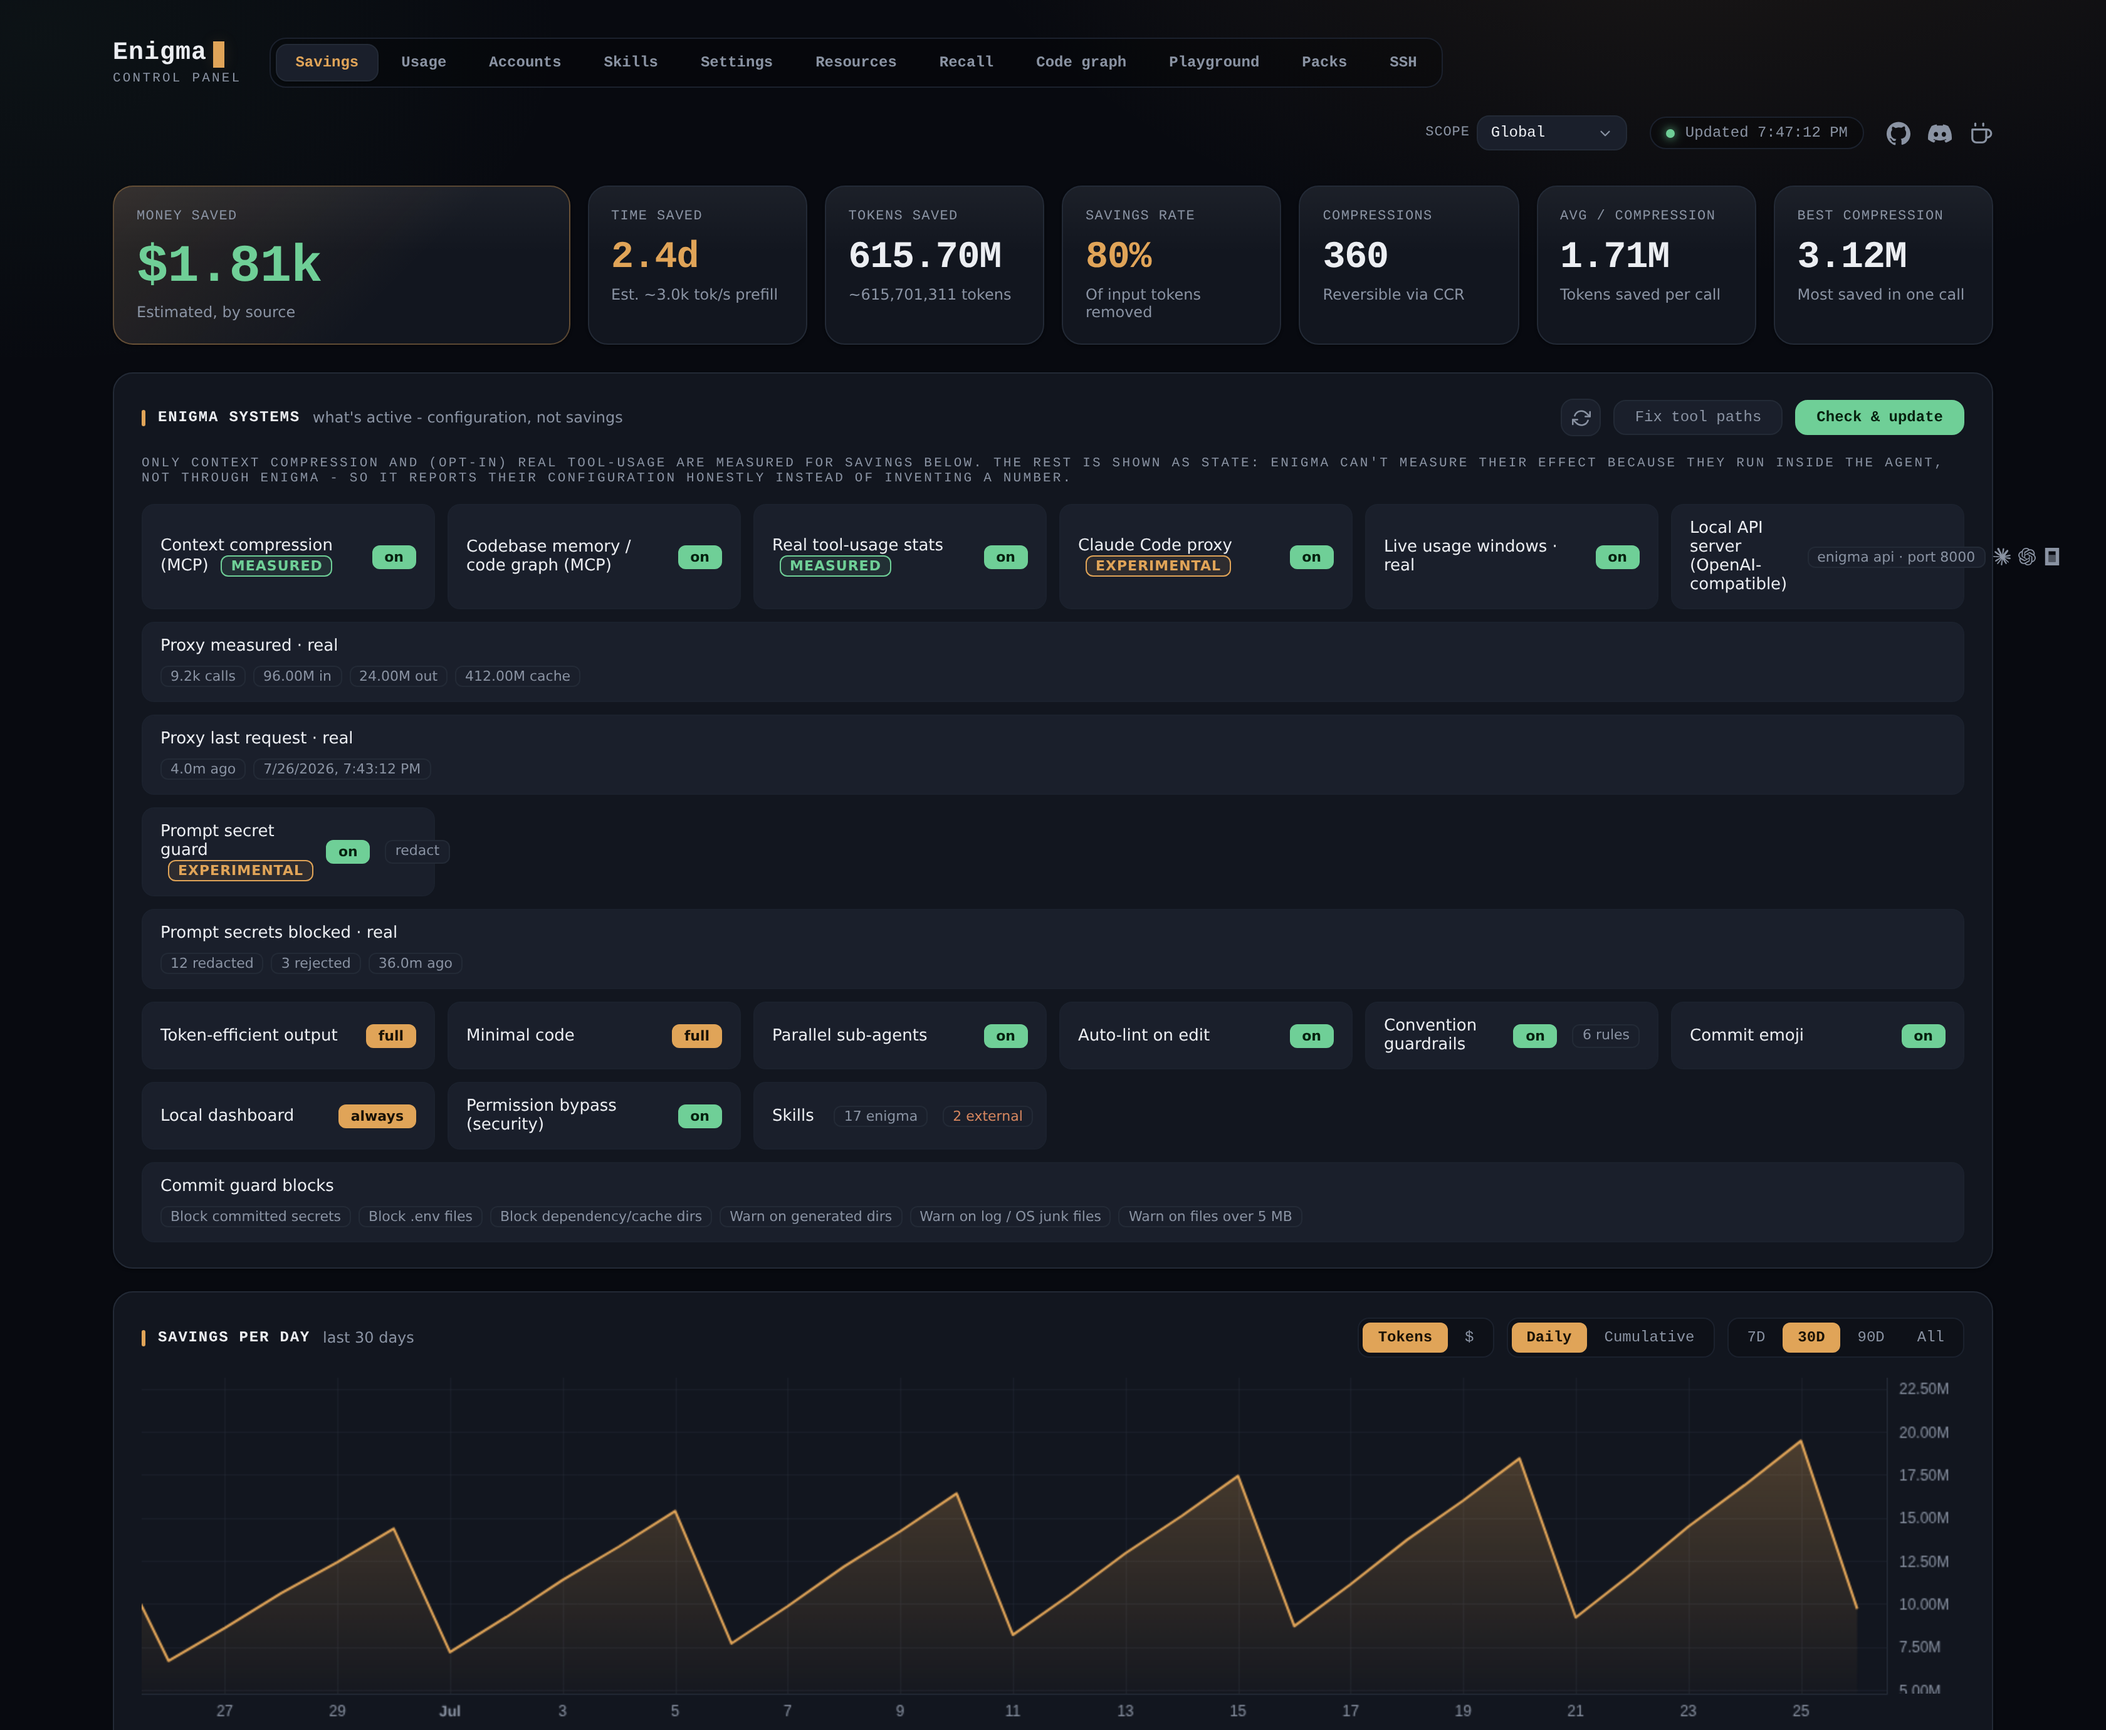
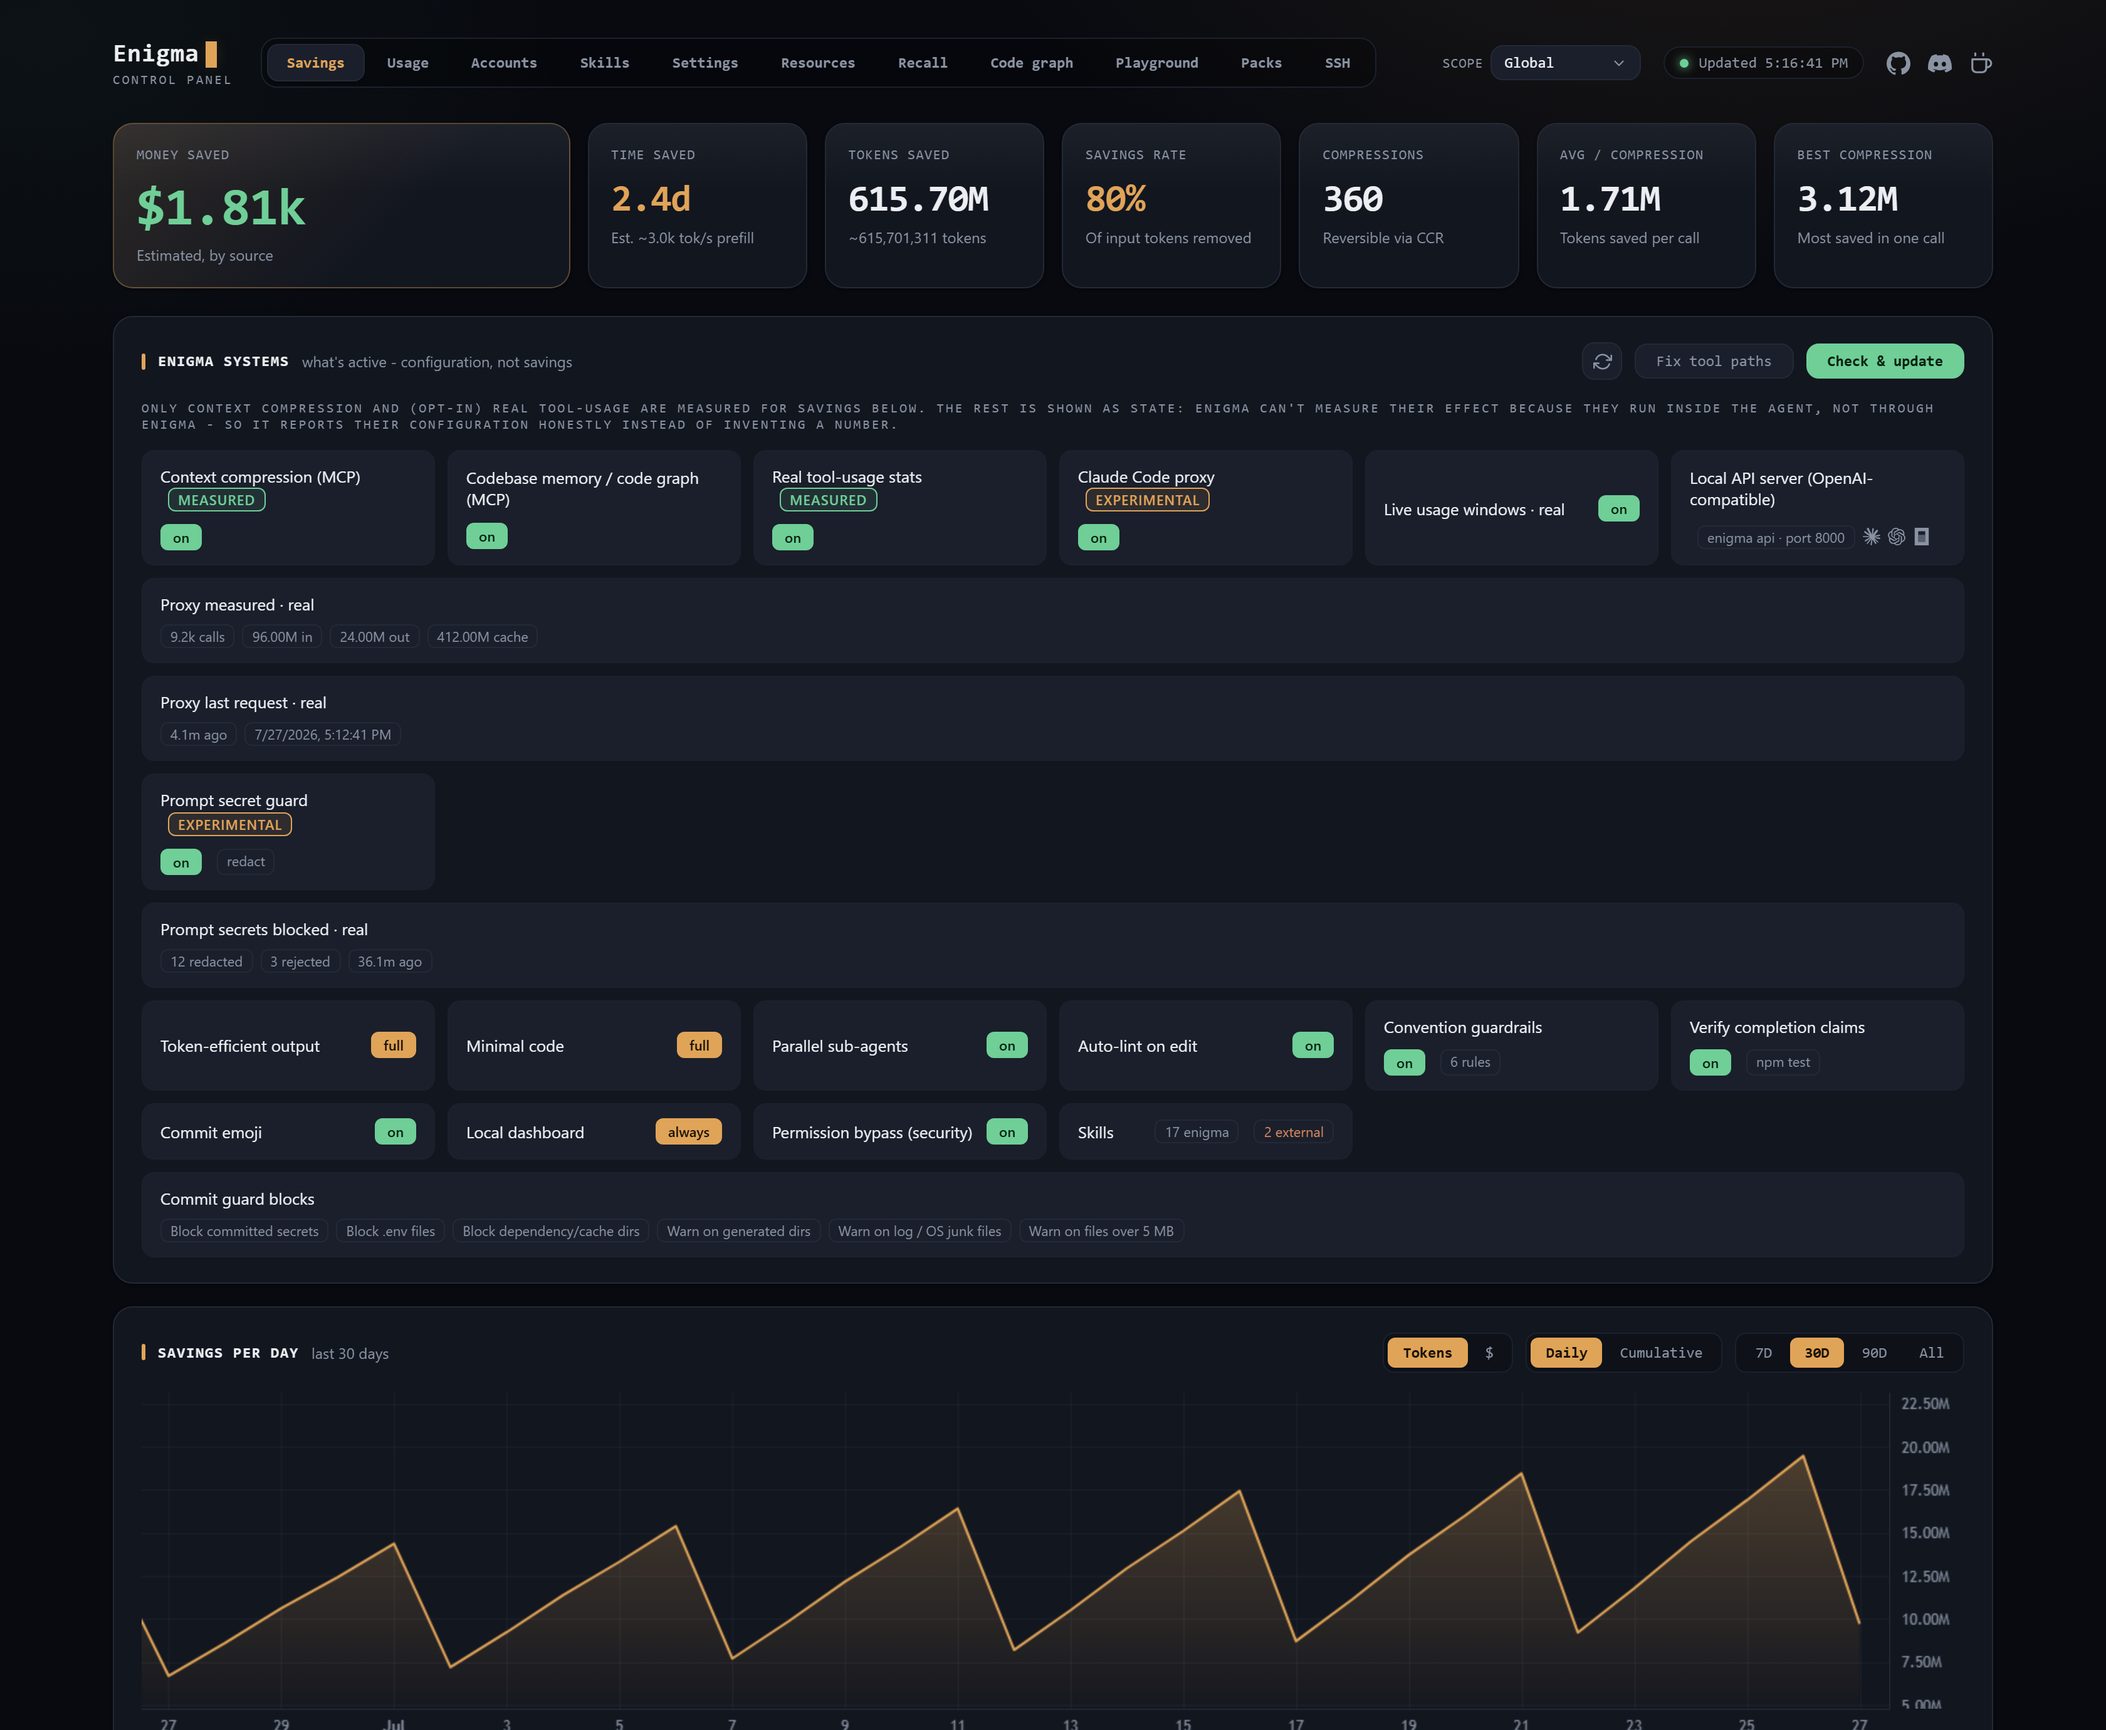
✨ feat(frontend): keep variable-length text inside its container
The dashboard systems panel pushed content past the panel edge whenever a label
or value ran long - visible in the committed preview, where the Local API server
card put its port tag and agent icons outside the panel. The cause is the default
min-width:auto on a flex or grid item: it refuses to shrink below its content, so
a long string widens the row instead of wrapping in it. The row now shrinks and
wraps, and a long unbroken label breaks with overflow-wrap:anywhere, which also
lowers min-content so the grid track is no longer forced wider.

Measured across 1440/1024/768/390px with worst-case content, before and after:
the old CSS reproduces the overflow, the new CSS has none.

frontend-policy gains the discipline this bug came from, since it has to be
pointed out by hand today: treat every string as variable-length, where
min-width:0 belongs, wrap versus truncate and keeping the truncated value
reachable, long unbroken strings, and checking worst-case content rather than
one sample at one window size.

Two guardrails back the syntactic half of that, both warn-level and both
unambiguous: a flex item that truncates without min-w-0, and text-overflow
ellipsis with no overflow value to make it take effect. Verified against the
whole tree for false positives.

diff --git a/packages/enigma-cli/src/guardrails.ts b/packages/enigma-cli/src/guardrails.ts
@@ -247,6 +247,40 @@ export const BUILTIN_RULES: GuardrailRule[] = [
         skill: "frontend-policy",
     },
     {
+        id: "fe-flex-truncate-min-width",
+        label: "Truncating flex item needs min-w-0",
+        files: ["*.tsx", "*.jsx", "*.vue", "*.svelte", "*.astro", "*.html"],
+        excludeFiles: ["*.test.*", "*.spec.*", "**/tests/**", "**/__tests__/**"],
+        scope: "file",
+        // A flex item that truncates but never sets min-w-0. This is the canonical "text sticks
+        // out of its card" bug and it is unambiguous: `truncate` implies white-space:nowrap, so
+        // the item's min-content width is the whole string, and a flex item's default
+        // min-width:auto refuses to shrink below that - it overflows instead. flex-1/flex-auto
+        // says it IS a flex item. The negative lookahead is scoped to the same class attribute
+        // (not the file) so a min-w-0 elsewhere never masks a broken element here.
+        pattern: "class(?:Name)?=[\"'](?![^\"']*\\bmin-w-0\\b)[^\"']*(?:\\b(?:flex-1|flex-auto)\\b[^\"']*\\btruncate\\b|\\btruncate\\b[^\"']*\\b(?:flex-1|flex-auto)\\b)[^\"']*[\"']",
+        flags: "",
+        message: "Flex item truncates without min-w-0, so it will overflow its container instead of shrinking (a flex item's default min-width:auto refuses to go below its content width, and truncate makes that the full string). Add min-w-0 to this element and to any ancestor between it and the container; for a grid track holding text use minmax(0, 1fr) rather than 1fr (frontend-policy).",
+        severity: "warn",
+        skill: "frontend-policy",
+    },
+    {
+        id: "fe-ellipsis-without-overflow",
+        label: "Ellipsis needs overflow hidden",
+        files: ["*.css", "*.scss", "*.sass", "*.less", "*.styl", "*.tsx", "*.jsx", "*.vue", "*.svelte", "*.astro", "*.html"],
+        excludeFiles: ["*.test.*", "*.spec.*", "**/tests/**", "**/__tests__/**", "**/dist/**", "**/build/**", "*.min.css"],
+        scope: "file",
+        // text-overflow only applies to a box that actually overflows, so ellipsis without an
+        // overflow value does nothing at all - the text just spills. The absent set covers the
+        // CSS declarations and the Tailwind utilities that provide it; note it cannot simply be
+        // "overflow", which would match the text-overflow property on this very line.
+        pattern: "text-overflow\\s*:\\s*ellipsis",
+        absent: "overflow(?:-x|-y)?\\s*:\\s*(?:hidden|clip|auto|scroll)|overflow-hidden|overflow-clip|\\btruncate\\b|text-ellipsis",
+        message: "text-overflow: ellipsis has no effect without an overflow value other than visible - the text overflows instead of being clipped. Add overflow: hidden (with white-space: nowrap for a single line), and keep the full value reachable via title or a tooltip (frontend-policy).",
+        severity: "warn",
+        skill: "frontend-policy",
+    },
+    {
         id: "doc-no-file-tree",
         label: "No ASCII file-tree in the README",
         // README only, at any depth. Scoped deliberately: a file tree in a deliberate

diff --git a/packages/dashboard/assets/index.html b/packages/dashboard/assets/index.html
@@ -418,9 +418,16 @@
         /* Each system reads as its own lit chip-card (name left, state pill right) in a grid,
            rather than a dense list of underlined rows - easier to scan at a glance. */
         .sys-grid { display: grid; grid-template-columns: repeat(auto-fill, minmax(232px, 1fr)); gap: 10px; }
-        .sys-item { display: flex; align-items: center; justify-content: space-between; gap: 10px; padding: 11px 14px; font-size: 13px; background: var(--surface2); border: 1px solid var(--border-soft); border-radius: var(--radius-sm); }
-        .sys-item .k { color: var(--text); }
-        .sys-item .v { display: flex; gap: 6px; flex-wrap: wrap; justify-content: flex-end; flex: 0 0 auto; }
+        /* Both halves hold text of unpredictable length (a setting label, a port, a model id, a
+           command), so the row is built to shrink rather than to push: min-width:0 defeats the
+           default min-width:auto that makes a flex/grid item refuse to go below its content
+           width, flex-wrap lets the value drop to its own line instead of spilling out of the
+           card, and overflow-wrap:anywhere lets a long unbroken label break (unlike break-word,
+           it also lowers min-content, which is what stops the grid track being forced wider). */
+        .sys-item { display: flex; flex-wrap: wrap; align-items: center; justify-content: space-between; gap: 10px; min-width: 0; padding: 11px 14px; font-size: 13px; background: var(--surface2); border: 1px solid var(--border-soft); border-radius: var(--radius-sm); }
+        .sys-item .k { color: var(--text); min-width: 0; overflow-wrap: anywhere; }
+        .sys-item .v { display: flex; gap: 6px; flex-wrap: wrap; justify-content: flex-end; flex: 0 1 auto; min-width: 0; }
+        .sys-item .v .tag { overflow-wrap: anywhere; }
         /* On a surface2 card the surface2 "off" pill would vanish - keep it outlined instead. */
         .sys-item .pill.off { background: transparent; }
         /* Rows whose value is a list of chips span the full width and let the chips wrap with
@@ -3417,6 +3424,7 @@ export {
                 + item("Parallel sub-agents", boolPill(s.parallelSubagents))
                 + item("Auto-lint on edit", boolPill(s.autoLint))
                 + item("Convention guardrails", s.guardrails ? boolPill(s.guardrails.on) + (s.guardrails.on ? ' <span class="tag">' + s.guardrails.rules + " rules</span>" : "") : boolPill(false))
+                + item("Verify completion claims", s.verify ? boolPill(s.verify.on) + (s.verify.on && s.verify.command ? ' <span class="tag">' + esc(s.verify.command) + "</span>" : "") : boolPill(false))
                 + item("Commit emoji", boolPill(s.commitEmoji))
                 + item("Local dashboard", pill(s.dashboard === "off" ? "off" : "lvl", s.dashboard || "off"))
                 + item("Permission bypass (security)", boolPill(sec.permissionBypass))

diff --git a/packages/enigma-cli/tests/guardrails.test.ts b/packages/enigma-cli/tests/guardrails.test.ts
@@ -21,6 +21,47 @@ const { disableRule, enableRule, addRule, removeRule } = await import("../src/gu
 afterAll(() => rmSync(HOME, { recursive: true, force: true }));
 beforeEach(() => rmSync(CONFIG, { force: true }));
 
+test("flags a truncating flex item that cannot shrink", () => {
+    for (const markup of [
+        '<div className="flex-1 truncate">{name}</div>',
+        '<div className="truncate flex-auto">{name}</div>',
+        '<span class="px-2 flex-1 text-sm truncate">{v}</span>',
+    ]) {
+        const f = checkFile("src/Row.tsx", markup, null);
+        expect(f.length).toBe(1);
+        expect(f[0]!.ruleId).toBe("fe-flex-truncate-min-width");
+        expect(f[0]!.severity).toBe("warn");
+    }
+});
+
+test("accepts a truncating flex item that declares min-w-0", () => {
+    for (const markup of [
+        '<div className="flex-1 min-w-0 truncate">{name}</div>',
+        // Not a flex item, so nothing forces it to overflow.
+        '<div className="truncate">{name}</div>',
+        // Capitalised utility from a design system, not the Tailwind class.
+        '<div className="Flex-1 Truncate">{name}</div>',
+    ]) expect(checkFile("src/Row.tsx", markup, null)).toEqual([]);
+});
+
+test("a min-w-0 on another element does not mask a broken one", () => {
+    // The lookahead is scoped to one class attribute, so the fixed row above must not
+    // suppress the broken row below - a file-wide `absent` would have hidden it.
+    const file = '<div className="flex-1 min-w-0 truncate">{a}</div>\n<div className="flex-1 truncate">{b}</div>\n';
+    const f = checkFile("src/List.tsx", file, null);
+    expect(f.length).toBe(1);
+    expect(f[0]!.line).toBe(2);
+});
+
+test("flags an ellipsis that cannot take effect, and only that", () => {
+    const broken = ".name { text-overflow: ellipsis; white-space: nowrap; }";
+    const fixed = ".name { overflow: hidden; text-overflow: ellipsis; white-space: nowrap; }";
+    const f = checkFile("src/app.css", broken, null);
+    expect(f.length).toBe(1);
+    expect(f[0]!.ruleId).toBe("fe-ellipsis-without-overflow");
+    expect(checkFile("src/app.css", fixed, null)).toEqual([]);
+});
+
 test("flags every explicit auto-increment identity signal", () => {
     const cases = [
         "id SERIAL PRIMARY KEY",

diff --git a/packages/enigma-cli/assets/skills/frontend-policy/SKILL.md b/packages/enigma-cli/assets/skills/frontend-policy/SKILL.md
@@ -87,6 +87,21 @@ Build every UI to adapt to the viewport; never assume a desktop width. A layout 
 
 ---
 
+## Text That Does Not Fit (Variable-Length Content)
+
+Every string is variable-length; the value on screen during development is one sample. Text escaping its card or colliding with a neighbour is the most common layout defect, it is invisible until the content changes, and it is the responsibility of whoever writes the layout - not something to be pointed out afterwards.
+
+- Design for the extremes of each string, not the sample: the longest realistic value (an unbounded user-supplied name, a long identifier, a full path, a big formatted number) and the shortest (empty, one character). Translations run noticeably longer than English - roughly a third more for German - so a label that only just fits is already broken.
+- **A flex or grid item refuses to shrink below its content by default** (`min-width: auto`). That single rule causes most "text sticks out of its card" bugs. Set `min-width: 0` (Tailwind `min-w-0`) on the item that must shrink AND on every ancestor between it and the container; for grid tracks use `minmax(0, 1fr)`, never a bare `1fr`, when the track holds text.
+- Decide per string whether it wraps or truncates. Truncation needs `overflow: hidden` - `text-overflow: ellipsis` does nothing without it - and the full value must stay reachable via `title`, a tooltip, or an accessible label. Never truncate a value the user has no way to recover.
+- Long unbroken strings (URLs, tokens, hashes, ids, file paths) have no spaces to wrap at and will push their container wide. Use `overflow-wrap: anywhere` on those. Prefer it over `word-break: break-word`: it also lowers the element's min-content width, which is what actually stops the track being forced wider.
+- Content whose width changes as it updates (counters, timers, prices) reflows its row on every tick. Use tabular numerals (`font-variant-numeric: tabular-nums`) or reserve the space.
+- Absolutely positioned or overlaid text is where collisions happen, because it is outside normal flow and cannot push anything away. Constrain it with a `max-width` and check it at the narrowest breakpoint.
+- Do not "fix" an overflow by clipping the parent. `overflow: hidden` on the container hides the symptom, and clips focus rings, tooltips and menus with it. Fix the sizing that caused it.
+- Verify with worst-case content before calling it done: render the longest value you expect and confirm nothing spills out of its box or over a neighbour. The mechanical check is `element.scrollWidth <= element.clientWidth` for the box, and comparing bounding rectangles against the container for the collision - cheaper and more reliable than eyeballing it at one window size.
+
+---
+
 ## State Management
 
 - Keep state as local as possible; lift it only when genuinely shared.
